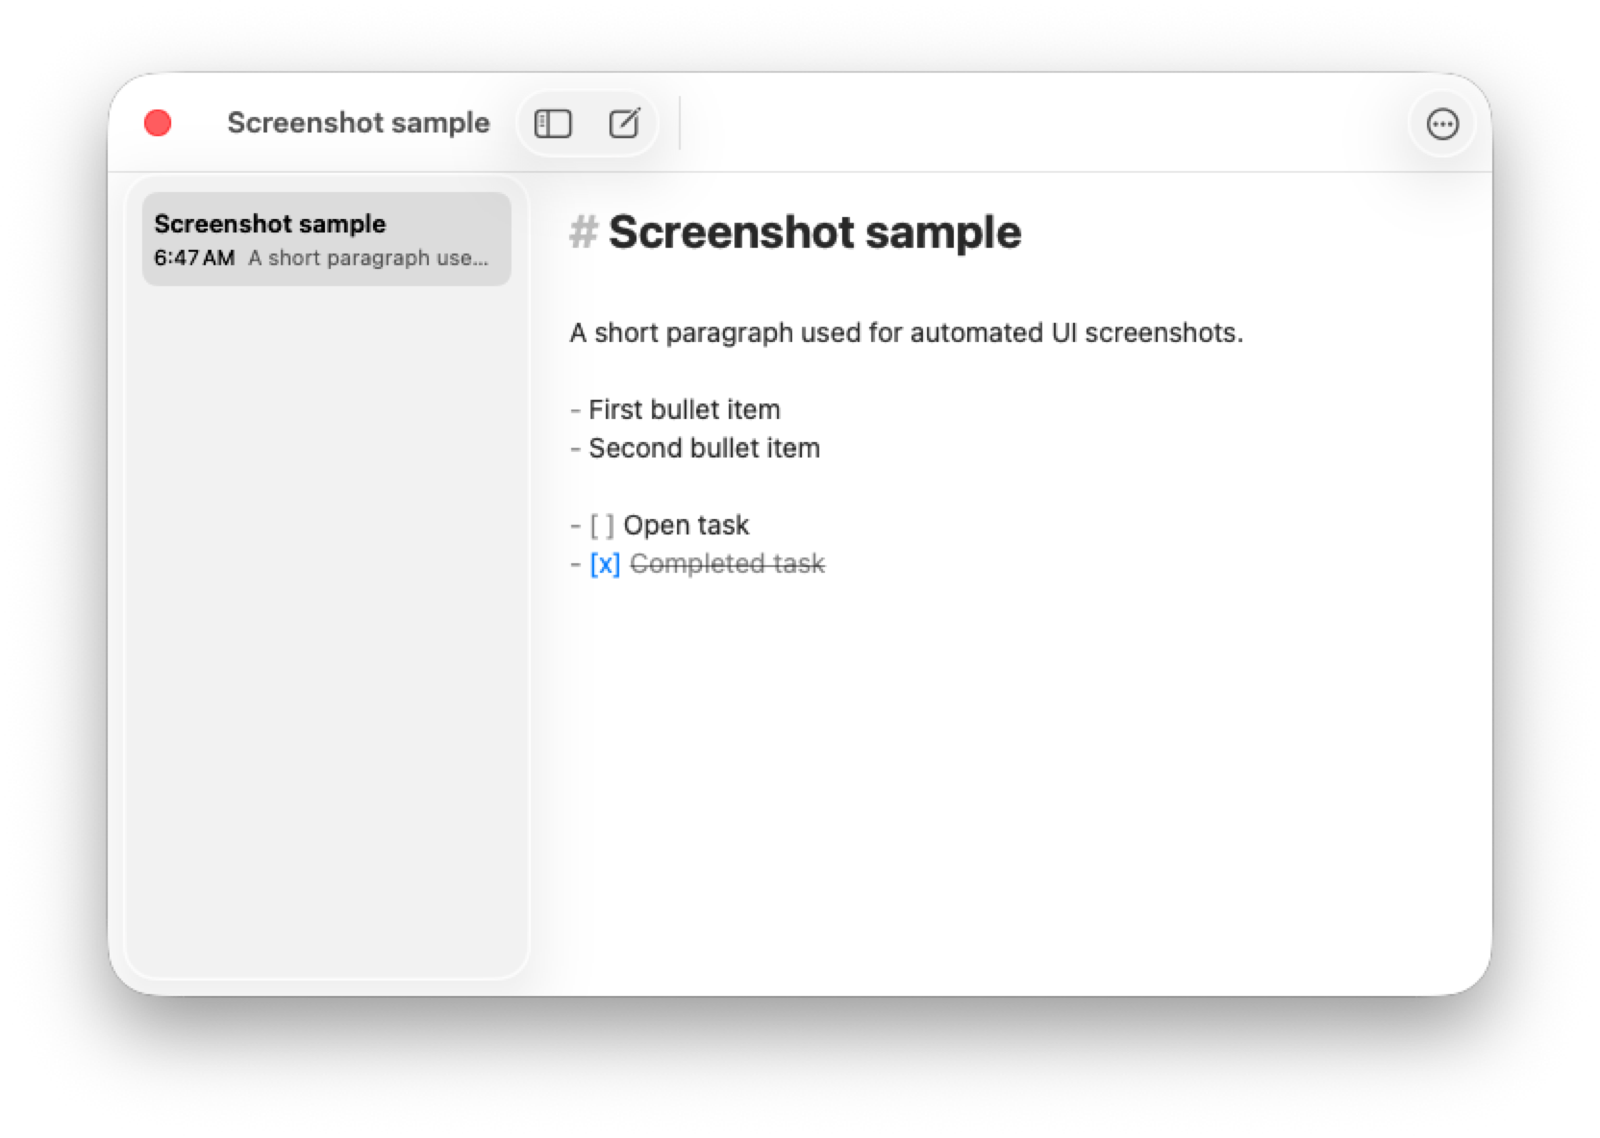
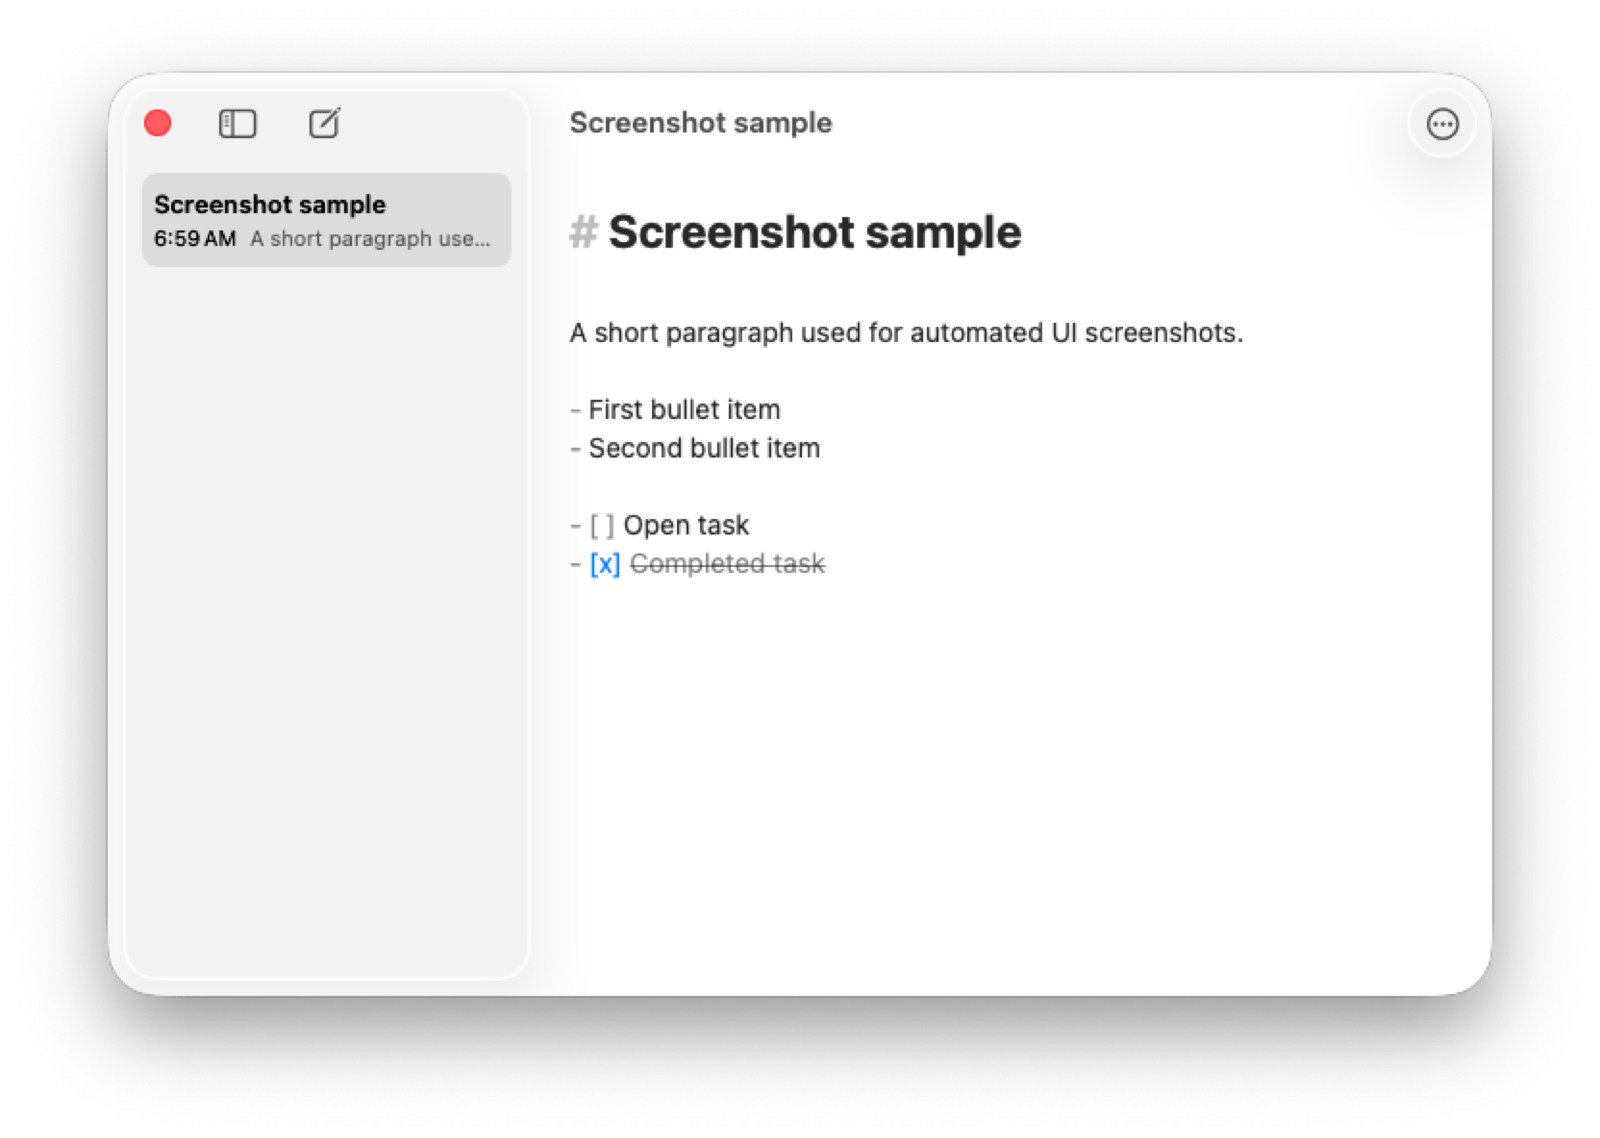
fix(notes): full-height sidebar and tracking separator need fullSizeContentView (#38)
* fix(notes): keep fullSizeContentView so the sidebar is full height and the separator tracks the divider

* docs(notes): re-capture the notes window screenshots with the full-height sidebar

---------

Changed region(s): [[0.0938, 0.1538, 0.3125, 0.246], [0.125, 0.0923, 0.5312, 0.123]]

diff --git a/Sources/PhotonNotes/NotesWindow.swift b/Sources/PhotonNotes/NotesWindow.swift
@@ -32,9 +32,11 @@ final class NotesWindow: NSObject {
   init(controller: NotesController) {
     self.controller = controller
     styler = MarkdownTextStyler(baseSize: CGFloat(controller.preferences.fontSize))
+    // `.fullSizeContentView` is what lets the sidebar run under the title bar and the tracking
+    // separator follow the divider; the scroll views inset themselves below the toolbar.
     panel = NotesPanel(
       contentRect: NSRect(origin: .zero, size: Self.defaultSize),
-      styleMask: [.titled, .closable, .resizable, .nonactivatingPanel],
+      styleMask: [.titled, .closable, .resizable, .fullSizeContentView, .nonactivatingPanel],
       backing: .buffered,
       defer: false
     )
